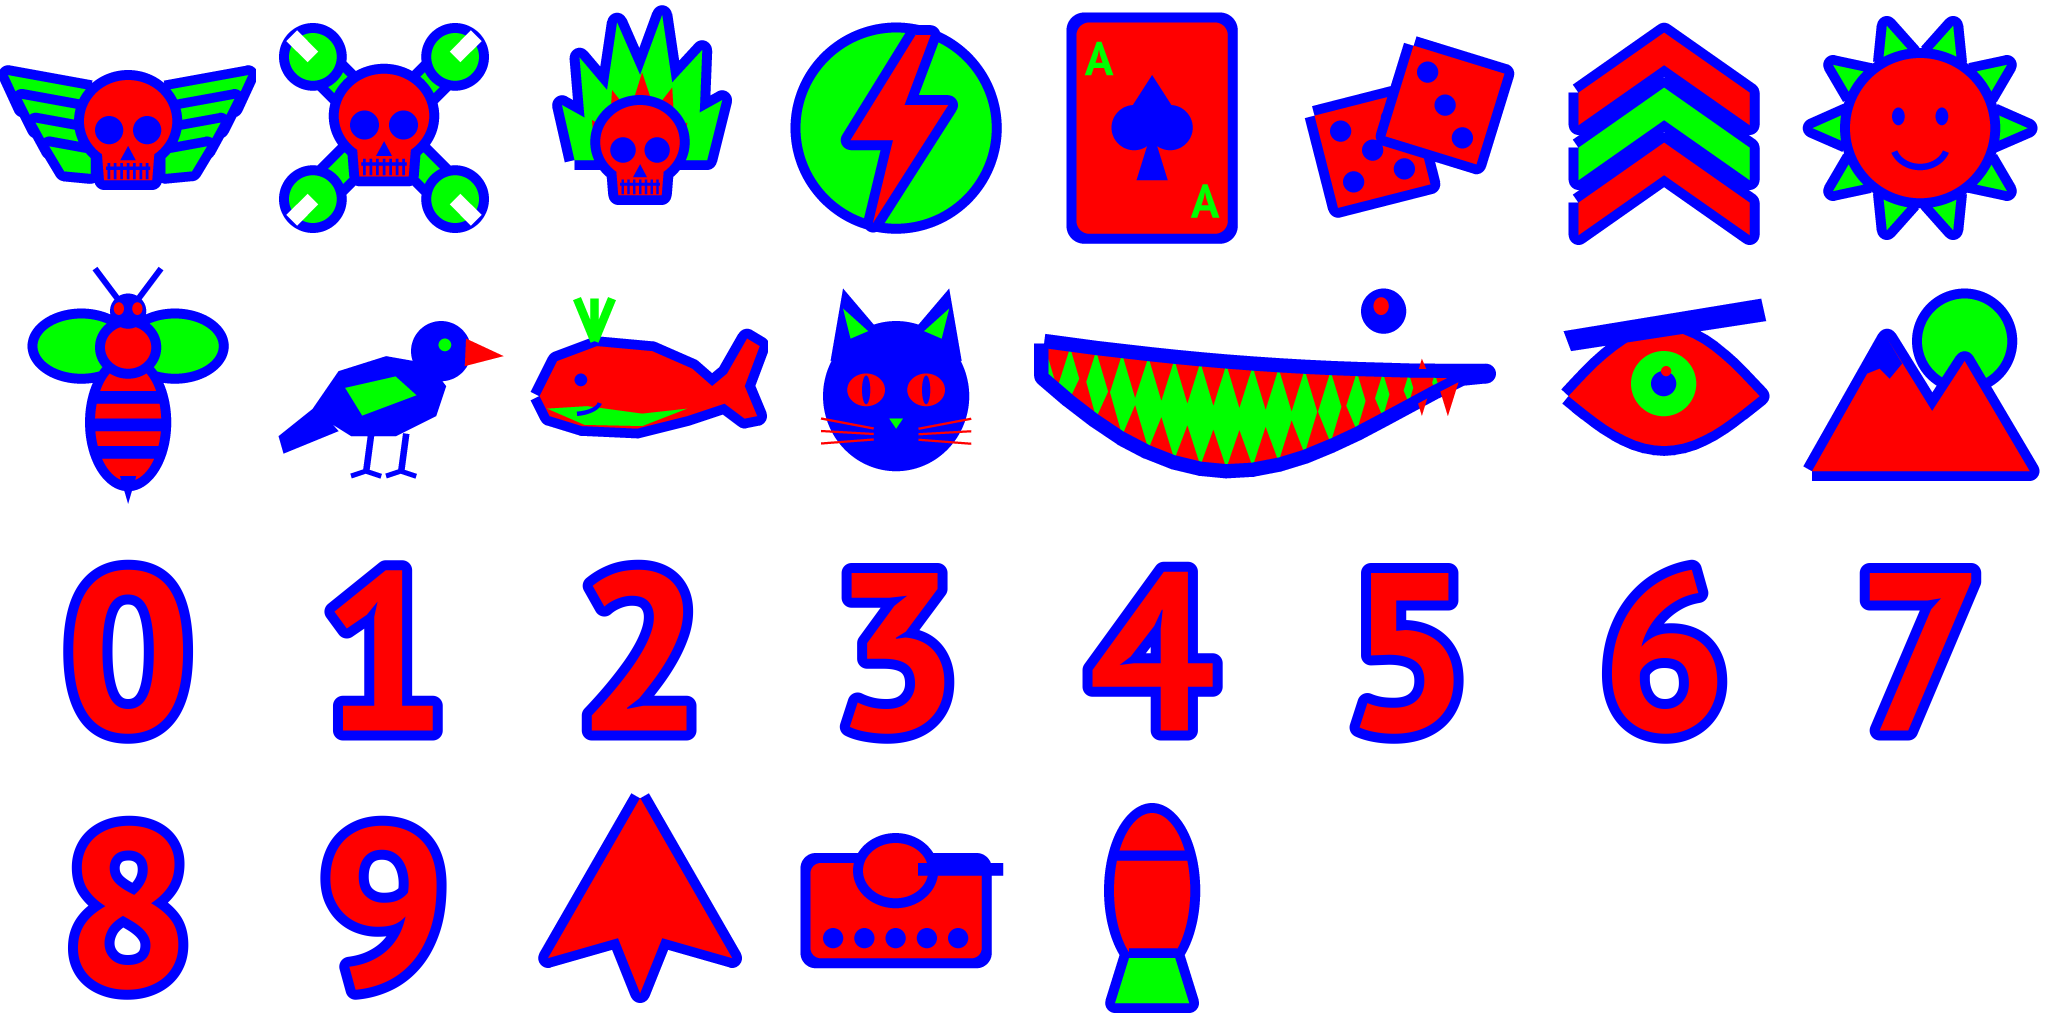
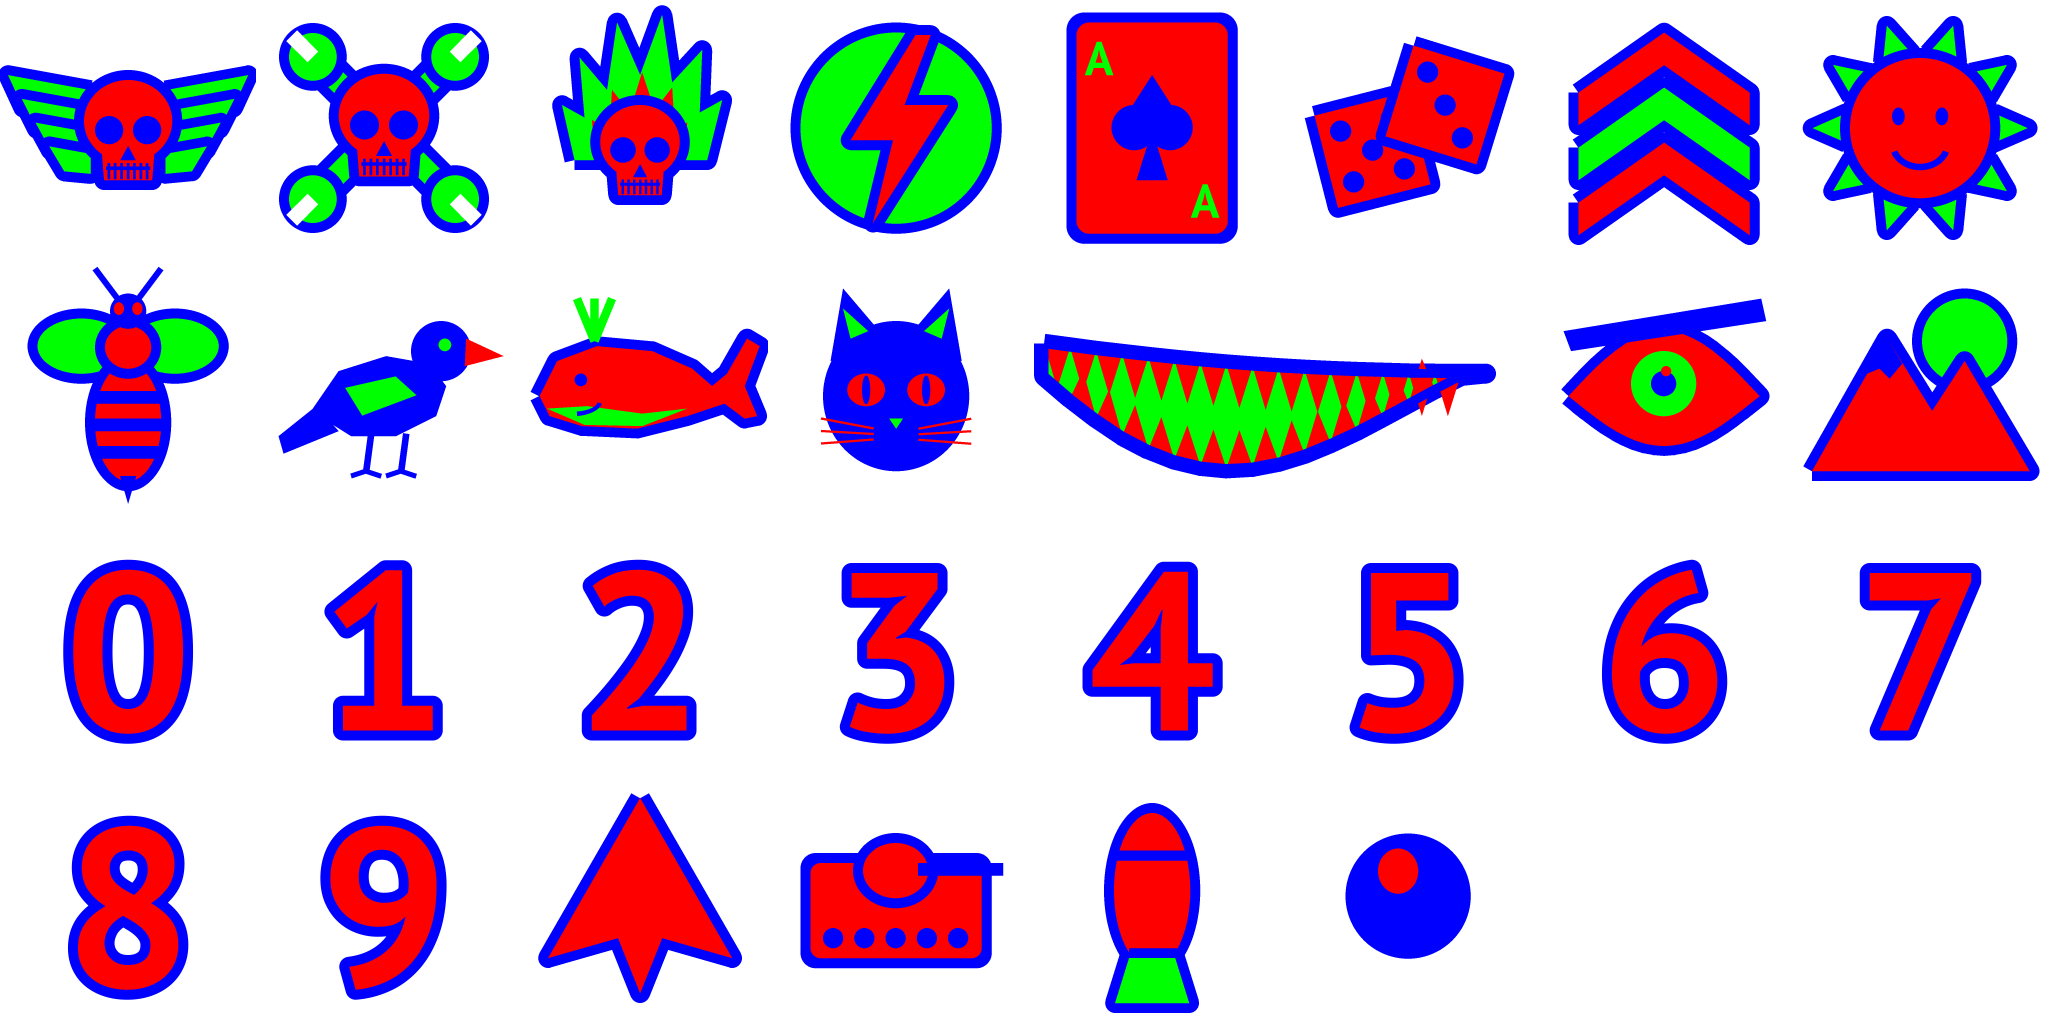
Decals: shark mouth without its eye; the eye is its own decal
Kanta 31.10 asked to take the eye out of the shark mouth picture and make it
a separate decal. The eye goes to atlas cell 29 as shark_eye and opens from the
start, like the mouth it was part of.

Claude-Session: https://claude.ai/code/session_01NJXKdwtwpw6x1yWAthQg3U

Changed region(s): [[0.6562, 0.8125, 0.7188, 0.9375], [0.6562, 0.2812, 0.6875, 0.3438]]

diff --git a/game/tools/decal_atlas.py b/game/tools/decal_atlas.py
@@ -9,7 +9,7 @@ fix keep the weights; the shader tints the three weights with the player's colou
 Cells (index = row * 8 + column):
  0 skull_winged  1 skull_wrench  2 skull_flame  3 bolt  4 ace_card  5 dice  6 chevrons  7 sun
  8 wasp  9 rook  10 whale  11 cat  12-13 shark_mouth (two cells wide)  14 eye  15 peaks
- 16-25 digits 0-9 (PT Sans Bold, game/fonts, OFL)  26 tally_air  27 tally_ground  28 tally_bomb
+ 16-25 digits 0-9 (PT Sans Bold, game/fonts, OFL)  26 tally_air  27 tally_ground  28 tally_bomb  29 shark_eye
 
 All shapes are fictional and neutral: no stars, national roundels, flags, eagles or unit marks.
 
@@ -273,8 +273,14 @@ def shark_mouth() -> Image.Image:
             yb0, yb1 = bot_y(t0), bot_y(t1)
             d.polygon([(x0, yb0), (x1, yb1), ((x0 + x1) / 2, (yb0 + yb1) / 2 - 150)], fill=PRIM)
     d.line(mouth + [mouth[0]], fill=INK, width=36, joint="curve")
-    d.ellipse((w - 700, 130, w - 520, 310), fill=INK)   # eye
-    d.ellipse((w - 650, 165, w - 590, 235), fill=PRIM)
+    return img
+
+
+def shark_eye() -> Image.Image:
+    """The shark mouth's eye as its own picture (Kanta 31.10), so the player places it or leaves it out."""
+    img, d = _cell()
+    d.ellipse((262, 262, 762, 762), fill=INK)
+    d.ellipse((392, 322, 552, 502), fill=PRIM)   # glint, off-centre like the old mouth eye
     return img
 
 
@@ -336,7 +342,7 @@ def build() -> Image.Image:
         (0, skull_winged()), (1, skull_wrench()), (2, skull_flame()), (3, bolt()), (4, ace_card()),
         (5, dice()), (6, chevrons()), (7, sun()), (8, wasp()), (9, rook()), (10, whale()), (11, cat()),
         (12, shark_mouth()), (14, eye()), (15, peaks()), (26, tally_air()), (27, tally_ground()),
-        (28, tally_bomb()),
+        (28, tally_bomb()), (29, shark_eye()),
     ] + [(16 + n, digit(n)) for n in range(10)]
     atlas = Image.new("RGBA", (COLS * CELL, ROWS * CELL), (0, 0, 0, 0))
     for idx, img in cells:
